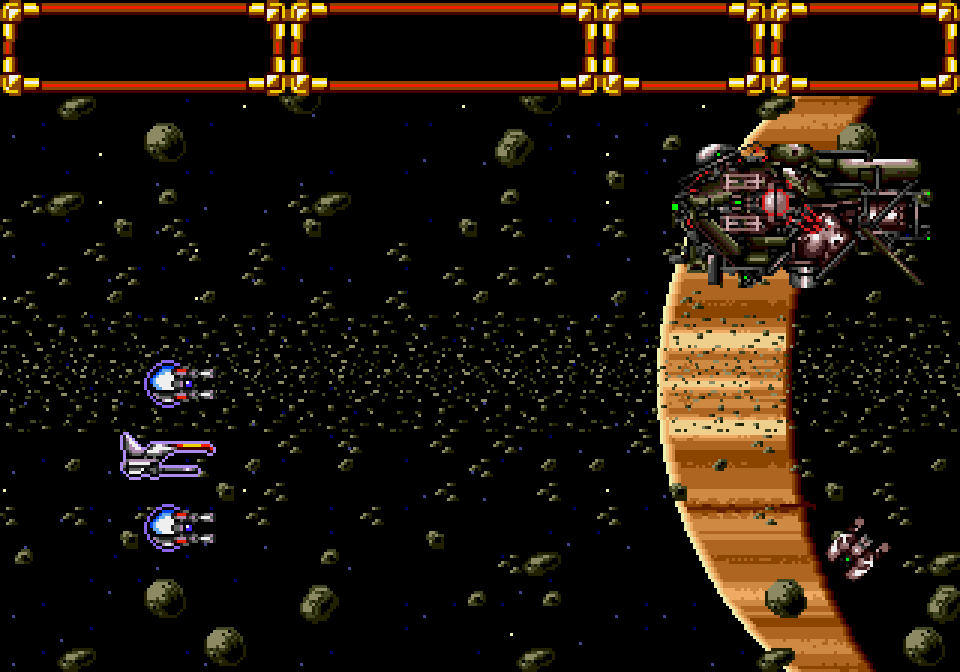
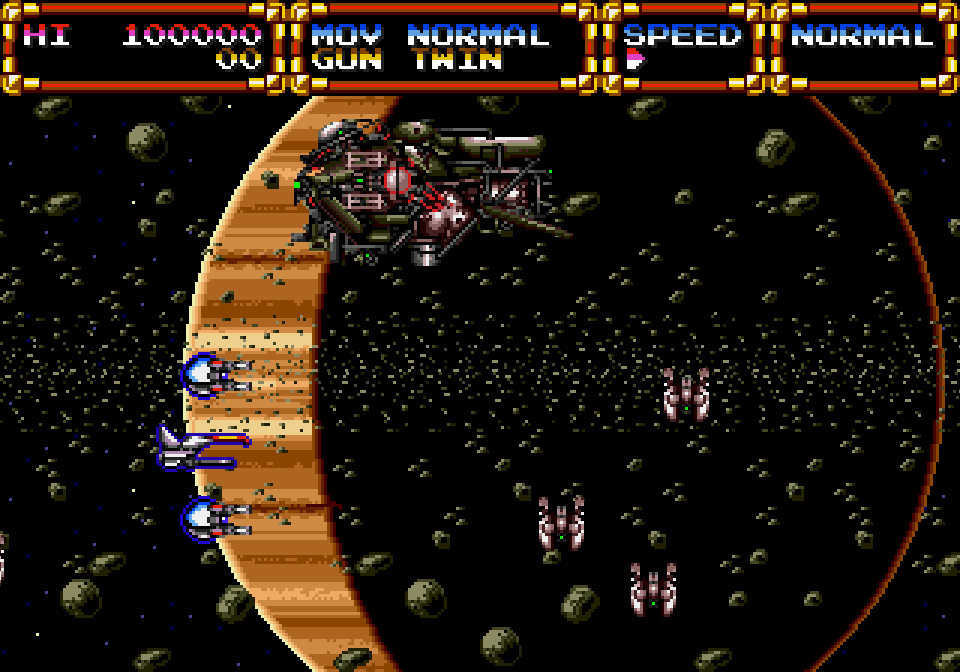
Dimensiones de pantalla dinamicas, actualiza el Hud y Campo correctamente

diff --git a/classes/view/FondoVista.cpp b/classes/view/FondoVista.cpp
@@ -5,6 +5,7 @@
 #include "FondoVista.h"
 #include "../GraphicRenderer.h"
 #include "../GeneradorDeTexturas.h"
+#include "../model/Nivel.h"
 #include <iostream>
 
 
@@ -15,10 +16,13 @@ FondoVista::FondoVista(const std::string &fileName, float xOffset, int y, float 
 
 	// Busca el ancho y alto de la imagen cargada
     SDL_QueryTexture(textura, nullptr, nullptr, &width, &height);
+    float escala = (float) (PANTALLA_ALTO - HUD_ALTO) / height;
+    width = width * escala;
+    height = height * escala;
 	FondoVista::y = y;
 	FondoVista::xOffset = xOffset;
-	FondoVista::x1 = 0;
-	FondoVista::x2 = (float) width;
+	FondoVista::x1 = PANTALLA_ANCHO / 2 + (float) width / 5;
+	FondoVista::x2 = x1 + width;
 	FondoVista::modVelocidad = modVelocidad;
 	FondoVista::velocidadNivelX = velocidadNivelX;
 }

diff --git a/main.cpp b/main.cpp
@@ -151,7 +151,7 @@ void mainLoop() {
         if (terminoNivelActual) {
 			terminoNivelActual = manager->pasajeDeNivel();
             SDL_RenderPresent(gRenderer);
-            SDL_Delay(800);
+            SDL_Delay(2000);
             quit = quit || manager->estadoJuego();
         } else {
 			quit = quit || manager->estadoJuego();
@@ -176,7 +176,6 @@ int main(int argc, char *argv[]) {
     std::string archivoConfig = BACKUP_CONFIG;
     std::string nivelLog;
 
-    // TODO --help
     for (int i = 1; i < argc; i ++) {
         if (strcmp(argv[i], "-l") == 0) {
         	if (!validarParametroSimple(argc, argv, "-l", i)) return -1;

diff --git a/classes/view/HudVista.cpp b/classes/view/HudVista.cpp
@@ -2,6 +2,7 @@
 #include "../Utils.h"
 #include "../GeneradorDeTexturas.h"
 #include "../GraphicRenderer.h"
+#include "../model/Nivel.h"
 #include <string>
 
 
@@ -12,7 +13,7 @@ HudVista::HudVista() {
 }
 
 void HudVista::render(Vector posicion) {
-	SDL_Rect hudrect = {0, 0, HUD_SRC_ANCHO, HUD_SRC_ALTO};
+    SDL_Rect hudrect = {(PANTALLA_ANCHO - HUD_ANCHO) / 2, 0, HUD_SRC_ANCHO, HUD_SRC_ALTO};
 	SDL_RenderSetViewport(gRenderer, &hudrect);
 
 	SDL_Rect srcrect = {0, 0, HUD_SRC_ANCHO, HUD_SRC_ALTO};

diff --git a/classes/model/ManagerNiveles.cpp b/classes/model/ManagerNiveles.cpp
@@ -42,7 +42,7 @@ bool ManagerNiveles::estadoJuego() {
 bool ManagerNiveles::pasajeDeNivel(){
     NivelConfiguracion* nivel = listNiveles.front();
 
-    NivelIntermedio* nivelIntermedio = new NivelIntermedio(960, 672, 96, nivel->getFinalNivel());
+    NivelIntermedio* nivelIntermedio = new NivelIntermedio(ancho, alto, HUD_ALTO, nivel->getFinalNivel());
     nivelIntermedio->tick();
     l.info("Transicion de niveles");
 

diff --git a/classes/model/Jugador.cpp b/classes/model/Jugador.cpp
@@ -53,6 +53,7 @@ Vector Jugador::actualizarPosicion(Vector posicionNueva) {
 	if (!campo->entidadEstaDentroDelCampo(this)) {
 		posicion = posicionAnterior;
 	}
+	return posicion;
 }
 
 void Jugador::tick() {
